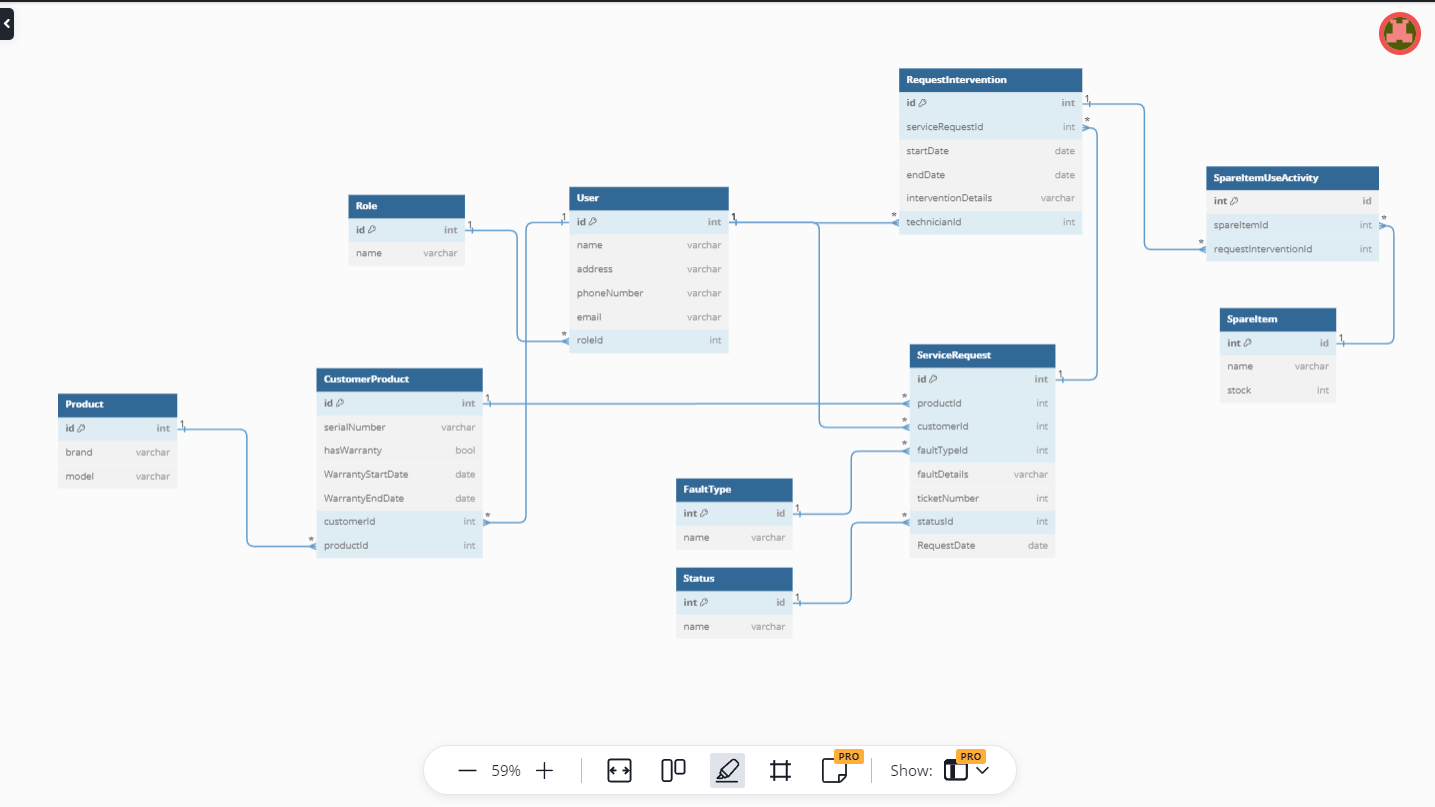
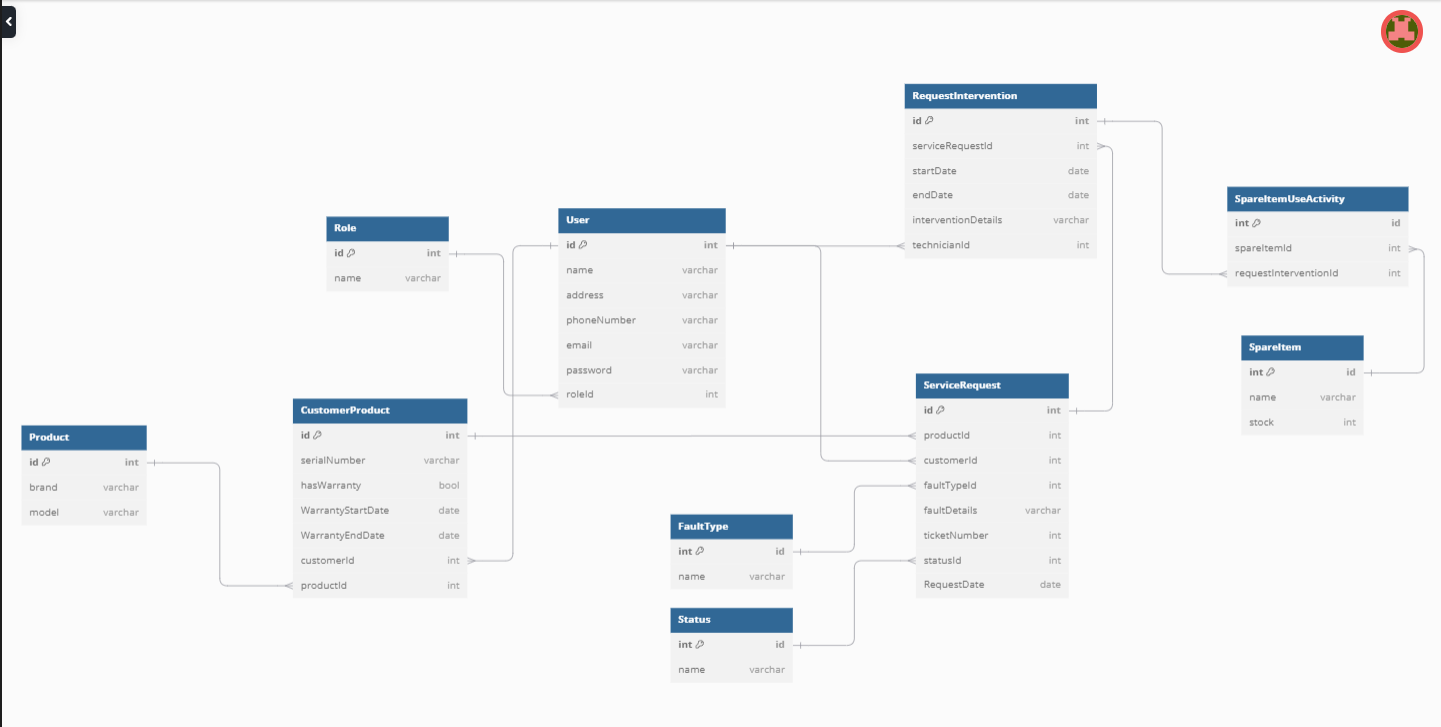
add column to user table

diff --git a/Migrations/20240920150232_InitialCreate.cs b/Migrations/20240920150232_InitialCreate.cs
@@ -39,7 +39,7 @@ namespace technical_service_tracking_system.Migrations
                 });
 
             migrationBuilder.CreateTable(
-                name: "Role",
+                name: "Roles",
                 columns: table => new
                 {
                     Id = table.Column<int>(type: "int", nullable: false)
@@ -48,7 +48,7 @@ namespace technical_service_tracking_system.Migrations
                 },
                 constraints: table =>
                 {
-                    table.PrimaryKey("PK_Role", x => x.Id);
+                    table.PrimaryKey("PK_Roles", x => x.Id);
                 });
 
             migrationBuilder.CreateTable(
@@ -88,15 +88,16 @@ namespace technical_service_tracking_system.Migrations
                     Adress = table.Column<string>(type: "nvarchar(max)", nullable: false),
                     PhoneNumber = table.Column<string>(type: "nvarchar(max)", nullable: false),
                     Email = table.Column<string>(type: "nvarchar(max)", nullable: false),
+                    Password = table.Column<string>(type: "nvarchar(max)", nullable: false),
                     RoleId = table.Column<int>(type: "int", nullable: false)
                 },
                 constraints: table =>
                 {
                     table.PrimaryKey("PK_Users", x => x.Id);
                     table.ForeignKey(
-                        name: "FK_Users_Role_RoleId",
+                        name: "FK_Users_Roles_RoleId",
                         column: x => x.RoleId,
-                        principalTable: "Role",
+                        principalTable: "Roles",
                         principalColumn: "Id",
                         onDelete: ReferentialAction.Cascade);
                 });
@@ -328,7 +329,7 @@ namespace technical_service_tracking_system.Migrations
                 name: "Users");
 
             migrationBuilder.DropTable(
-                name: "Role");
+                name: "Roles");
         }
     }
 }

diff --git a/Migrations/20240920150232_InitialCreate.Designer.cs b/Migrations/20240920150232_InitialCreate.Designer.cs
@@ -12,7 +12,7 @@ using technical_service_tracking_system.Entity;
 namespace technical_service_tracking_system.Migrations
 {
     [DbContext(typeof(TsDbContext))]
-    [Migration("20240920133932_InitialCreate")]
+    [Migration("20240920150232_InitialCreate")]
     partial class InitialCreate
     {
         /// <inheritdoc />
@@ -149,7 +149,7 @@ namespace technical_service_tracking_system.Migrations
 
                     b.HasKey("Id");
 
-                    b.ToTable("Role");
+                    b.ToTable("Roles");
                 });
 
             modelBuilder.Entity("technical_service_tracking_system.Entity.ServiceRequest", b =>
@@ -275,6 +275,10 @@ namespace technical_service_tracking_system.Migrations
                         .HasColumnType("nvarchar(max)");
 
                     b.Property<string>("Name")
+                        .IsRequired()
+                        .HasColumnType("nvarchar(max)");
+
+                    b.Property<string>("Password")
                         .IsRequired()
                         .HasColumnType("nvarchar(max)");
 

diff --git a/Migrations/TsDbContextModelSnapshot.cs b/Migrations/TsDbContextModelSnapshot.cs
@@ -146,7 +146,7 @@ namespace technical_service_tracking_system.Migrations
 
                     b.HasKey("Id");
 
-                    b.ToTable("Role");
+                    b.ToTable("Roles");
                 });
 
             modelBuilder.Entity("technical_service_tracking_system.Entity.ServiceRequest", b =>
@@ -272,6 +272,10 @@ namespace technical_service_tracking_system.Migrations
                         .HasColumnType("nvarchar(max)");
 
                     b.Property<string>("Name")
+                        .IsRequired()
+                        .HasColumnType("nvarchar(max)");
+
+                    b.Property<string>("Password")
                         .IsRequired()
                         .HasColumnType("nvarchar(max)");
 

diff --git a/Entity/User.cs b/Entity/User.cs
@@ -12,6 +12,8 @@ namespace technical_service_tracking_system.Entity
         public string Adress { get; set; } = string.Empty;
         public string PhoneNumber { get; set; } = string.Empty;
         public string Email { get; set; } = string.Empty;
+        public string Password { get; set; } = string.Empty;
+
      
         public int RoleId { get; set; }
         public Role Role { get; set; } = null!;
